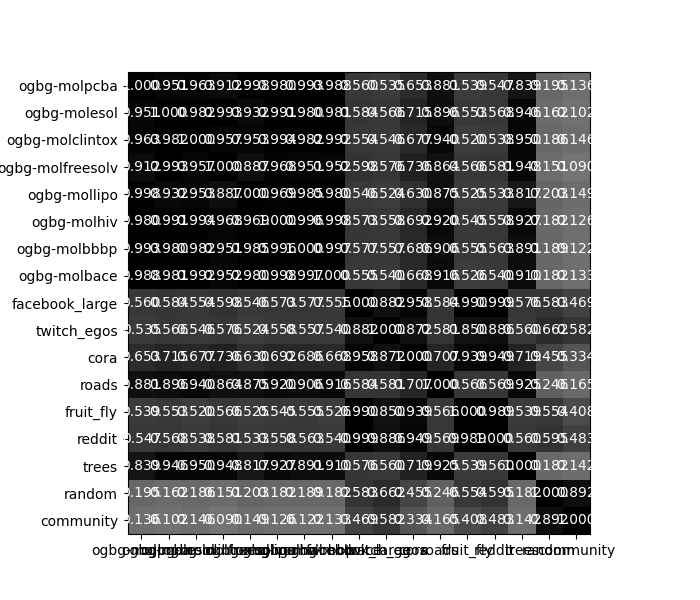
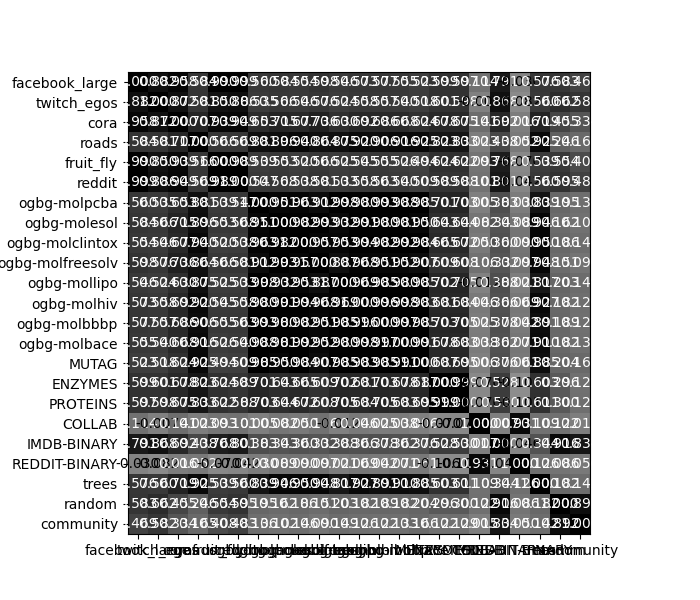
Fixes to TU datasets

diff --git a/datasets/real/from_tu_dataset.py b/datasets/real/from_tu_dataset.py
@@ -1,5 +1,6 @@
 import os
 import torch
+from torch.nn.functional import one_hot
 import networkx as nx
 import matplotlib.pyplot as plt
 import numpy as np
@@ -48,12 +49,12 @@ class FromTUDataset(InMemoryDataset):
 
     Args:
         root (str): Root directory where the dataset should be saved.
-        ogb_dataset (list): an `PygGraphPropPredDataset` to be converted back to `InMemoryDataset`.
-        stage (str): The stage of the dataset to load. One of "train", "val", "test". (default: :obj:`"train"`)
+        ogb_dataset (list): a TUDataset to be converted back to `InMemoryDataset`.
+        stage (str): The stage of the dataset to load. One of "train", "val", "test", "None". If None, returns the whole original dataset. Otherwise returns one of a (80,10,10) train/val/test split. (default: :obj:`None`)
         transform (callable, optional): A function/transform that takes in an :obj:`torch_geometric.data.Data` object and returns a transformed version. The data object will be transformed before every access. (default: :obj:`None`)
         pre_transform (callable, optional): A function/transform that takes in an :obj:`torch_geometric.data.Data` object and returns a transformed version. The data object will be transformed before being saved to disk. (default: :obj:`None`)
         pre_filter (callable, optional): A function that takes in an :obj:`torch_geometric.data.Data` object and returns a boolean value, indicating whether the data object should be included in the final dataset. (default: :obj:`None`)
-        num (int): The number of samples to take from the original dataset. -1 takes all available samples for that stage. (default: :obj:`-1`).
+        num (int): The number of samples to take from the original dataset. -1 takes all available samples for that stage. Ignored if stage is not None. (default: :obj:`-1`).
 
     **STATS:**
 
@@ -118,6 +119,7 @@ class FromTUDataset(InMemoryDataset):
                                "test":2,
                                "train-adgcl":3}
         self.num = num
+        self.task = "graph-classification"
         print(f"Converting OGB stage {self.stage}")
         super().__init__(root, transform, pre_transform, pre_filter)
         self.data, self.slices = torch.load(self.processed_paths[self.stage_to_index[self.stage]])
@@ -140,20 +142,31 @@ class FromTUDataset(InMemoryDataset):
             return
         data_list = self.ogb_dataset
 
+        num_classes = data_list.num_classes
+
         num_samples = len(data_list)
-        if num_samples < self.num:
-            keep_n = num_samples
+        if self.stage is None:
+            if num_samples < self.num:
+                keep_n = num_samples
+            else:
+                keep_n = self.num
         else:
-            keep_n = self.num
+            if self.stage == "train":
+                data_list = data_list[:int(0.8 * num_samples)]
+            elif self.stage == "val":
+                data_list = data_list[int(0.8 * num_samples):int(0.9 * num_samples)]
+            elif self.stage == "test":
+                data_list = data_list[int(0.9 * num_samples):]
+
+            keep_n = len(data_list)
 
         new_data_list = []
         for i, item in enumerate(data_list[:keep_n]):
 
-
             data = Data(x = item.x, 
                         edge_index=item.edge_index,
                         edge_attr= item.edge_attr, 
-                        y = item.y)
+                        y = one_hot(item.y, num_classes = num_classes))
             
             new_data_list.append(data)
         data_list = new_data_list
@@ -170,12 +183,12 @@ class FromTUDataset(InMemoryDataset):
 
 def from_tu_dataset(root,  stage="train", num=-1):
     """
-    Load a dataset from the Open Graph Benchmark (OGB) and convert it to the Big Graph Dataset format.
+    Load a TU dataset and convert it to the Big Graph Dataset format.
 
     Args:
-        name (str): The name of the OGB dataset.
-        stage (str, optional): The stage of the dataset to load (e.g., "train", "valid", "test"). Defaults to "train".
-        num (int, optional): The number of samples to load. Set to -1 to load all samples. Defaults to -1.
+        name (str): The name of the TU dataset. ("MUTAG", "ENZYMES", "PROTEINS", "COLLAB", "IMDB-BINARY", "REDDIT-BINARY")
+        stage (str, optional): The stage of the dataset to load (e.g., "train", "valid", "test", None). Defaults to None, which returns the whole dataset. Otherwise returns one of a (80/10/10) train/val/test split.
+        num (int, optional): The number of samples to load. Set to -1 to load all samples. Defaults to -1. Ignored if stage is not None.
 
     Returns:
         FromOGBDataset: The converted dataset in the Big Graph Dataset format.

diff --git a/datasets/loaders/loaders.py b/datasets/loaders/loaders.py
@@ -17,32 +17,6 @@ from datasets.synthetic.lattice_dataset import LatticeDataset
 from datasets.synthetic.community_dataset import CommunityDataset
 
 
-
-
-
-
-# def get_chemical_datasets(transforms, num, stage="train"):
-#     if "bgd_files" not in os.listdir():
-#         os.mkdir("bgd_files")
-#     print(f"stage: {stage}")
-
-#     names = ["ogbg-molpcba", "ogbg-molesol", "ogbg-molclintox",
-#                 "ogbg-molfreesolv", "ogbg-mollipo", "ogbg-molhiv",
-#             "ogbg-molbbbp", "ogbg-molbace",
-#                 ]
-
-#     print(f"Molecular datasets: {names}")
-#     datasets = [PygGraphPropPredDataset(name=name, root='./bgd_files/', transform=transforms) for name in names]
-#     print(datasets)
-#     split_idx = [data.get_idx_split() for data in datasets]
-
-#     datasets = [data[split_idx[i]["valid" if stage == "val" else stage]] for i, data in enumerate(datasets)]
-
-#     datasets = [FromOGBDataset(os.getcwd()+'/bgd_files/'+names[i], data, num=num, stage = stage)
-#                 for i, data in enumerate(datasets)] #  if names[i] != "ogbg-molpcba" else 5*num, stage=stage
-
-#     return datasets, names
-
 def get_datasets(transforms, num, stage="train", exclude=None):
     if "bgd_files" not in os.listdir():
         os.mkdir("bgd_files")
@@ -162,26 +136,6 @@ def get_all_datasets(transforms, num=5000, mol_only=False):
             - datasets (list): A list of all the datasets.
             - all_names (list): A list of names corresponding to each dataset.
     """
-    
-    # # All the train datasets
-    # chemical_datasets, ogbg_names = get_chemical_datasets(transforms, num, stage="train")
-    # if not mol_only:
-    #     social_datasets, social_names = get_social_datasets(transforms, num, stage="train")
-    # else:
-    #     social_datasets = []
-    #     social_names = []
-
-    # datasets = chemical_datasets + social_datasets
-
-    # val_chemical_datasets, val_ogbg_names = get_chemical_datasets(transforms, -1, stage="val")
-    # if not mol_only:
-    #     val_social_datasets, val_social_names = get_social_datasets(transforms, num, stage="val")
-    # else:
-    #     val_social_datasets = []
-    #     val_social_names = []
-
-    # datasets = datasets + val_chemical_datasets + val_social_datasets
-    # all_names = ogbg_names + social_names + val_ogbg_names + val_social_names
 
     train_datasets, train_names = get_train_datasets(transforms, num)
     val_datasets, val_names = get_val_datasets(transforms, -1)

diff --git a/describe_datasets.py b/describe_datasets.py
@@ -104,6 +104,21 @@ def run(args):
     top_datasets = [ToPDataset(dataset) for i, dataset in enumerate(train_datasets)]
     compute_top_scores(top_datasets, train_names)
 
+    roots = []
+    for idataset, dataset in enumerate(train_datasets):
+        try:
+            roots.append(dataset.root)
+        except AttributeError:
+            train_datasets[idataset] = dataset.datasets[0]
+            roots.append(train_datasets[idataset].root)
+            # roots.append(dataset.datasets[0].root)
+
+    for i, dataset in enumerate(train_datasets):
+        print(dataset, train_names[i], roots[i])
+        vis_grid(dataset[:25], f"{roots[i]}/{train_names[i]}.png")
+
+        
+
     train_datasets, train_names = get_train_datasets(my_transforms, num = args.num_train)
 
     val_datasets, val_names = get_val_datasets(my_transforms, num = args.num_val)
@@ -119,18 +134,7 @@ def run(args):
     update_readme_table("README.md", md_string)
 
 
-    # roots = []
-    # for idataset, dataset in enumerate(train_datasets):
-    #     try:
-    #         roots.append(dataset.root)
-    #     except AttributeError:
-    #         train_datasets[idataset] = dataset.datasets[0]
-    #         roots.append(train_datasets[idataset].root)
-    #         # roots.append(dataset.datasets[0].root)
 
-    # for i, dataset in enumerate(train_datasets):
-    #     print(dataset, train_names[i], roots[i])
-    #     vis_grid(dataset[:25], f"{roots[i]}/{train_names[i]}.png")
 
 
 

diff --git a/datasets/real/from_ogb_dataset.py b/datasets/real/from_ogb_dataset.py
@@ -85,7 +85,7 @@ class FromOGBDataset(InMemoryDataset):
     def process(self):
         # Read data into huge `Data` list.
         if os.path.isfile(self.processed_paths[self.stage_to_index[self.stage]]):
-            print(f"\nOGB files exist at {self.processed_paths[self.stage_to_index[self.stage]]}")
+            print(f"\nTU files exist at {self.processed_paths[self.stage_to_index[self.stage]]}")
             return
         data_list = self.ogb_dataset
 
@@ -122,7 +122,7 @@ def from_ogb_dataset(root,  stage="train", num=-1):
     Load a dataset from the Open Graph Benchmark (OGB) and convert it to the Big Graph Dataset format.
 
     Args:
-        name (str): The name of the OGB dataset.
+        name (str): The name of the OGB dataset. (Classification: "ogbg-molpcba", "ogbg-molhiv", "ogbg-moltox21", "ogbg-molbace", "ogbg-molbbbp", "ogbg-molclintox", "ogbg-molmuv", "ogbg-molsider", "ogbg-moltoxcast") (Regression: "ogbg-molesol", "ogbg-molfreesolv", "ogbg-mollipo")
         stage (str, optional): The stage of the dataset to load (e.g., "train", "valid", "test"). Defaults to "train".
         num (int, optional): The number of samples to load. Set to -1 to load all samples. Defaults to -1.
 

diff --git a/top/top.py b/top/top.py
@@ -125,7 +125,7 @@ class GeneralEmbeddingEvaluation:
         """
         train_all_embeddings, train_separate_embeddings = self.get_embeddings(encoder, train_loaders, names)
         self.centroid_similarities(train_separate_embeddings, names)
-        self.vis(train_all_embeddings, train_separate_embeddings, names)
+        # self.vis(train_all_embeddings, train_separate_embeddings, names)
 
     def get_embeddings(self, encoder, loaders, names):
         """
